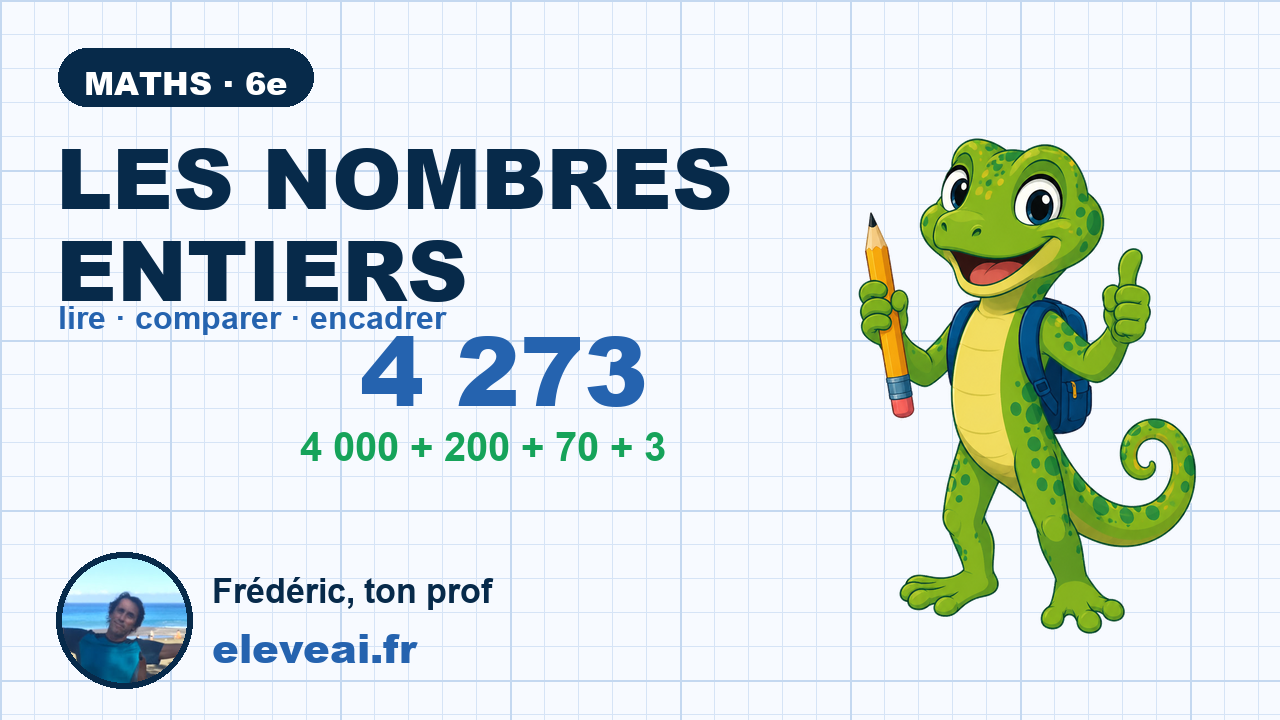
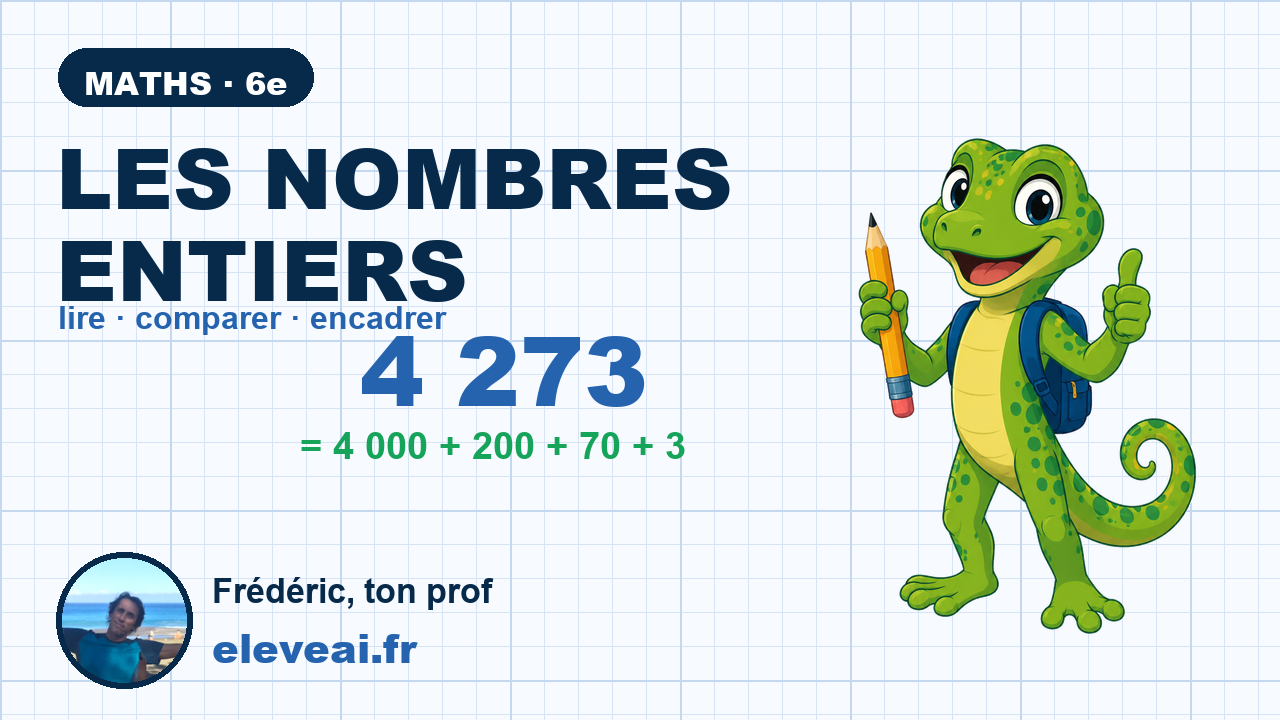
videos manim : infrastructure de production EN LOT (echelle)
- miniature.py devient un REGISTRE (toutes les notions decrites, generation
  en lot : python manim/miniature.py) ; 6 miniatures 6e regenerees au meme
  standard cahier + signature.
- render_all.py : rend toutes les videos d une classe au bon nom (-o), la nuit.
- REGLES.md : muet+texte OBLIGE des explications detaillees et simples a l ecran
  (aucun son), pacing genereux, on n est pas presse ; principe plus-visuel ;
  workflow de production en lot ; voix optionnelle.

Changed region(s): [[0.2188, 0.5806, 0.5312, 0.6417]]

diff --git a/manim/miniature.py b/manim/miniature.py
@@ -1,13 +1,18 @@
-# Générateur de miniatures YouTube EleveAI (1280x720).
-# STYLE DE LA SÉRIE (choisi le 13/07) : « cahier » — fond papier à carreaux clair,
-# badge bleu nuit, titre bleu nuit (Arial Black), addition posée sur les carreaux,
-# Ti-Margo à droite, et la SIGNATURE HUMAINE en bas à gauche : photo ronde de
-# Frédéric + eleveai.fr (le « prof vrai », pas une marque anonyme).
-# Pour une nouvelle notion : changer le bloc « CONTENU » et la fonction accroche().
+# Générateur de miniatures YouTube EleveAI (1280x720) — EN LOT.
+# STYLE FIGÉ « cahier » : fond papier à carreaux clair, badge bleu nuit, titre
+# bleu nuit (Arial Black), accroche visuelle propre à la notion, Ti-Margo à
+# droite, SIGNATURE HUMAINE bas-gauche (photo ronde de Frédéric + eleveai.fr).
 #
-# Usage : python manim/miniature.py  → manim/miniatures/<nom>.png
+# REGISTRE : chaque notion = une entrée dans NOTIONS (badge, titre, taille,
+# sous-titre, fonction accroche). Ajouter une notion = ajouter une entrée + sa
+# fonction accroche.
+#
+# Usage :
+#   python manim/miniature.py            → génère TOUTES les miniatures
+#   python manim/miniature.py <nom>      → génère seulement celle-là (préfixe suffit)
 
 import os
+import sys
 from pathlib import Path
 
 from PIL import Image, ImageDraw, ImageFont
@@ -17,13 +22,6 @@ FONTS = Path("C:/Windows/Fonts")
 TI_MARGO = RACINE / "public" / "cahier-vacances" / "ti-margo.png"
 AVATAR = RACINE / "public" / "images" / "avatar-frederic-Lacoste.jpg"
 SORTIE = RACINE / "manim" / "miniatures"
-
-# ── CONTENU (à changer d'une notion à l'autre) ─────────────────────────────────
-NOM = "eleveai-maths-6e-pourcentage-nombre"
-BADGE = "MATHS · 6e"
-TITRE = ["LES", "POURCENTAGES"]
-TITRE_TAILLE = 78
-SOUS_TITRE = "comprendre · calculer"
 
 # ── Charte cahier ──────────────────────────────────────────────────────────────
 W, H = 1280, 720
@@ -44,6 +42,91 @@ def a_droite(d, xr, y, txt, f, fill):
     d.text((xr - d.textlength(txt, font=f), y), txt, font=f, fill=fill)
 
 
+def centre(d, cx, y, txt, f, fill):
+    d.text((cx - d.textlength(txt, font=f) / 2, y), txt, font=f, fill=fill)
+
+
+# ── Accroches par notion (le dessin propre à chaque cours) ─────────────────────
+def acc_calcul_pose(d):
+    f = police("arialbd.ttf", 62)
+    xg, xd, yh = 476, 700, 322
+    d.text((xg, yh + 74), "+", font=f, fill=BLEU)
+    a_droite(d, xd, yh, "475", f, BLEU)
+    a_droite(d, xd, yh + 74, "286", f, BLEU)
+    d.rounded_rectangle([xg, yh + 156, xd, yh + 168], radius=6, fill=JAUNE)
+    a_droite(d, xd, yh + 178, "761", f, VERT)
+
+
+def acc_entier(d):
+    d.text((360, 300), "4 273", font=police("ariblk.ttf", 96), fill=BLEU)
+    d.text((300, 424), "= 4 000 + 200 + 70 + 3", font=police("arialbd.ttf", 38), fill=VERT)
+
+
+def acc_decimal(d):
+    d.text((360, 300), "3,45", font=police("ariblk.ttf", 96), fill=BLEU)
+    d.text((320, 424), "= 3 + 0,4 + 0,05", font=police("arialbd.ttf", 40), fill=VERT)
+
+
+def acc_fraction(d):
+    d.text((300, 296), "3/4", font=police("ariblk.ttf", 104), fill=BLEU)
+    cx, cy, r = 570, 384, 76
+    box = [cx - r, cy - r, cx + r, cy + r]
+    d.pieslice(box, start=-90, end=180, fill=BLEU)
+    d.ellipse(box, outline=NAVY, width=4)
+    d.line([cx - r, cy, cx + r, cy], fill=NAVY, width=3)
+    d.line([cx, cy - r, cx, cy + r], fill=NAVY, width=3)
+
+
+def acc_proportionnalite(d):
+    x0, y0, cw, ch = 300, 336, 70, 58
+    f = police("ariblk.ttf", 34)
+    for r, (vals, col) in enumerate([(["1", "3", "5"], BLEU), (["2", "6", "10"], NAVY)]):
+        for c, v in enumerate(vals):
+            x, y = x0 + c * cw, y0 + r * ch
+            d.rectangle([x, y, x + cw, y + ch], outline=NAVY, width=3)
+            centre(d, x + cw / 2, y + 10, v, f, col)
+    d.text((x0 + 3 * cw + 20, y0 + 22), "× 2", font=police("ariblk.ttf", 40), fill=VERT)
+
+
+def acc_pourcentage(d):
+    d.text((296, 320), "25 %", font=police("ariblk.ttf", 92), fill=BLEU)
+    gx, gy, cs = 566, 336, 15
+    for i in range(100):
+        r, c = i // 10, i % 10
+        x, y = gx + c * cs, gy + r * cs
+        d.rectangle([x, y, x + cs, y + cs], fill=(BLEU if i < 25 else PAPIER), outline=CARREAU_FORT, width=1)
+
+
+# ── LE REGISTRE : une entrée par notion ────────────────────────────────────────
+NOTIONS = {
+    "eleveai-maths-6e-entier-calcul-pose": {
+        "badge": "MATHS · 6e", "titre": ["LE CALCUL", "POSÉ"], "taille": 84,
+        "sous": "les 4 opérations, pas à pas", "accroche": acc_calcul_pose,
+    },
+    "eleveai-maths-6e-entier-nombre": {
+        "badge": "MATHS · 6e", "titre": ["LES NOMBRES", "ENTIERS"], "taille": 84,
+        "sous": "lire · comparer · encadrer", "accroche": acc_entier,
+    },
+    "eleveai-maths-6e-decimal-nombre": {
+        "badge": "MATHS · 6e", "titre": ["LES NOMBRES", "DÉCIMAUX"], "taille": 84,
+        "sous": "lire · comparer · calculer", "accroche": acc_decimal,
+    },
+    "eleveai-maths-6e-fraction-nombre": {
+        "badge": "MATHS · 6e", "titre": ["LES", "FRACTIONS"], "taille": 84,
+        "sous": "lire · représenter · comparer", "accroche": acc_fraction,
+    },
+    "eleveai-maths-6e-prop-proportionnalite": {
+        "badge": "MATHS · 6e", "titre": ["LA", "PROPORTIONNALITÉ"], "taille": 60,
+        "sous": "reconnaître · le coefficient", "accroche": acc_proportionnalite,
+    },
+    "eleveai-maths-6e-pourcentage-nombre": {
+        "badge": "MATHS · 6e", "titre": ["LES", "POURCENTAGES"], "taille": 78,
+        "sous": "comprendre · calculer", "accroche": acc_pourcentage,
+    },
+}
+
+
+# ── Rendu ──────────────────────────────────────────────────────────────────────
 def fond():
     img = Image.new("RGB", (W, H), PAPIER)
     d = ImageDraw.Draw(img)
@@ -65,18 +148,7 @@ def badge(d, x, y, txt):
     d.text((x + 26, y + 11), txt, font=f, fill=(255, 255, 255))
 
 
-def accroche(d):
-    """« 25 % » + une grille de 100 carreaux, 25 coloriés (spécifique pourcentages)."""
-    d.text((296, 320), "25 %", font=police("ariblk.ttf", 92), fill=BLEU)
-    gx, gy, cs = 566, 336, 15
-    for i in range(100):
-        r, c = i // 10, i % 10
-        x, y = gx + c * cs, gy + r * cs
-        d.rectangle([x, y, x + cs, y + cs], fill=(BLEU if i < 25 else PAPIER), outline=CARREAU_FORT, width=1)
-
-
 def signature(img, d):
-    """Photo ronde de Frédéric + eleveai.fr, en bas à gauche."""
     diam, x, y = 128, 60, 556
     av = Image.open(AVATAR).convert("RGBA")
     s = min(av.size)
@@ -86,13 +158,12 @@ def signature(img, d):
     ImageDraw.Draw(masque).ellipse([0, 0, diam, diam], fill=255)
     img.paste(av, (x, y), masque)
     d.ellipse([x - 4, y - 4, x + diam + 4, y + diam + 4], outline=NAVY, width=6)
-
     tx = x + diam + 24
     d.text((tx, y + 16), "Frédéric, ton prof", font=police("arialbd.ttf", 34), fill=NAVY)
     d.text((tx, y + 62), "eleveai.fr", font=police("ariblk.ttf", 40), fill=BLEU)
 
 
-def construire():
+def construire(nom, spec):
     img = fond()
     d = ImageDraw.Draw(img)
 
@@ -102,20 +173,28 @@ def construire():
     m = m.resize((w, h), Image.LANCZOS)
     img.paste(m, (W - w - 4, H - h - 6), m)
 
-    badge(d, 58, 48, BADGE)
-    ft = police("ariblk.ttf", TITRE_TAILLE)
-    d.text((56, 116), TITRE[0], font=ft, fill=NAVY)
-    d.text((56, 208), TITRE[1], font=ft, fill=NAVY)
-    d.text((58, 300), SOUS_TITRE, font=police("arialbd.ttf", 32), fill=BLEU)
+    badge(d, 58, 48, spec["badge"])
+    ft = police("ariblk.ttf", spec["taille"])
+    d.text((56, 116), spec["titre"][0], font=ft, fill=NAVY)
+    d.text((56, 208), spec["titre"][1], font=ft, fill=NAVY)
+    d.text((58, 300), spec["sous"], font=police("arialbd.ttf", 32), fill=BLEU)
 
-    accroche(d)
+    spec["accroche"](d)
     signature(img, d)
 
     os.makedirs(SORTIE, exist_ok=True)
-    chemin = SORTIE / f"{NOM}.png"
+    chemin = SORTIE / f"{nom}.png"
     img.save(chemin, "PNG")
     print(chemin)
 
 
+def main():
+    filtre = sys.argv[1] if len(sys.argv) > 1 else None
+    for nom, spec in NOTIONS.items():
+        if filtre and filtre not in nom:
+            continue
+        construire(nom, spec)
+
+
 if __name__ == "__main__":
-    construire()
+    main()

diff --git a/manim/render_all.py b/manim/render_all.py
@@ -1,0 +1,83 @@
+# Rendu EN LOT de toutes les vidéos Manim d'une classe.
+# Trouve chaque script manim/scripts/<classe>/<notionId>.py, y lit le nom de la
+# scène (class ...(Scene)) et rend au bon nom (-o eleveai-<matiere>-<classe>-<notionId>).
+# Pensé pour tourner la nuit : lance, récupère les mp4 au réveil.
+#
+# Usage :
+#   python manim/render_all.py 6e            → rendu FINAL 1080p60 de toute la 6e
+#   python manim/render_all.py 6e --draft    → brouillon 480p (rapide, pour vérifier)
+#   python manim/render_all.py 6e fraction   → seulement les scripts contenant "fraction"
+#
+# Matière : "maths" par défaut (--matiere xxx pour changer).
+
+import re
+import subprocess
+import sys
+from pathlib import Path
+
+# La console Windows est en cp1252 : on force l'UTF-8 pour les flèches/emojis.
+try:
+    sys.stdout.reconfigure(encoding="utf-8")
+except Exception:
+    pass
+
+RACINE = Path(__file__).resolve().parents[1]
+
+
+def scene_name(fichier: Path) -> str | None:
+    texte = fichier.read_text(encoding="utf-8")
+    m = re.search(r"class\s+(\w+)\s*\(\s*Scene\s*\)", texte)
+    return m.group(1) if m else None
+
+
+def main():
+    args = [a for a in sys.argv[1:]]
+    draft = "--draft" in args
+    args = [a for a in args if a != "--draft"]
+
+    matiere = "maths"
+    if "--matiere" in args:
+        i = args.index("--matiere")
+        matiere = args[i + 1]
+        del args[i:i + 2]
+
+    classe = args[0] if args else "6e"
+    filtre = args[1] if len(args) > 1 else None
+
+    quality = "-ql" if draft else "-qh"
+    dossier = RACINE / "manim" / "scripts" / classe
+    media = f"manim/scripts/{classe}/media"
+
+    scripts = sorted(p for p in dossier.glob("*.py") if p.name != "__init__.py")
+    if filtre:
+        scripts = [p for p in scripts if filtre in p.stem]
+
+    if not scripts:
+        print(f"Aucun script dans {dossier}" + (f" contenant « {filtre} »" if filtre else ""))
+        return
+
+    print(f"== Rendu {'BROUILLON' if draft else 'FINAL'} de {len(scripts)} vidéo(s) — {classe} ==\n")
+    ok, rate = [], []
+    for i, script in enumerate(scripts, 1):
+        scene = scene_name(script)
+        if not scene:
+            print(f"[{i}/{len(scripts)}] ⚠  {script.name} : pas de classe Scene trouvée, ignoré.")
+            rate.append(script.name)
+            continue
+        notion = script.stem  # ex. entier_nombre
+        oname = f"eleveai-{matiere}-{classe}-{notion.replace('_', '-')}"
+        print(f"[{i}/{len(scripts)}] {script.name} → {scene} → {oname}.mp4")
+        cmd = [
+            sys.executable, "-m", "manim", "render", quality,
+            f"manim/scripts/{classe}/{script.name}", scene,
+            "-o", oname, "--media_dir", media,
+        ]
+        res = subprocess.run(cmd, cwd=RACINE)
+        (ok if res.returncode == 0 else rate).append(oname)
+
+    print("\n== Terminé ==")
+    print(f"✅ {len(ok)} rendue(s)" + (f" · ❌ {len(rate)} échec(s) : {', '.join(rate)}" if rate else ""))
+
+
+if __name__ == "__main__":
+    main()

diff --git a/manim/REGLES.md b/manim/REGLES.md
@@ -25,22 +25,29 @@ Cette procédure est la jumelle de la procédure fiches : même point de départ
      --media_dir manim/scripts/<classe>/media
    ```
    Ex. 6e calcul posé → `-o eleveai-maths-6e-entier-calcul-pose` → `eleveai-maths-6e-entier-calcul-pose.mp4`.
-5. **Enregistrer la voix** (voir « Workflow voix » ci-dessous).
-6. **Monter** dans Clipchamp (inclus dans Windows 11) : vidéo + audio, calage sur le « top », export 1080p.
-7. **Publier sur YouTube** (chaîne eleveai) — voir conventions ci-dessous.
-8. **Coller l'URL dans `/admin/ressources`** (clé = notionId) → vérifier que le badge « ▶ Vidéo » s'allume dans le coach sur cette notion.
+5. **Générer la miniature** : `python manim/miniature.py <nom>` (registre, voir plus bas).
+6. **Publier sur YouTube** (chaîne eleveai) — le mp4 est **muet + texte**, publiable tel quel (voir « Muet + texte » ci-dessous). Voir conventions YouTube.
+7. **Coller l'URL dans `/admin/ressources`** (clé = notionId) → badge « ▶ Vidéo » dans le coach. Ajouter l'entrée `VIDEOS_FICHES` du sitemap (`app/sitemap.ts`).
+8. **Voix (OPTIONNELLE, plus tard)** : uniquement sur les notions phares, ou par les élèves. Voir « Workflow voix ». On n'attend PAS la voix pour publier.
 
 ---
 
-## Standard qualité : MONTRER, pas raconter
+## Standard qualité : MONTRER, pas raconter — et « PLUS C'EST VISUEL, MIEUX C'EST »
 
-C'est un enfant qui regarde. La règle des fiches (retour Frédéric du 13/07) s'applique encore plus fort en vidéo :
+C'est un enfant qui regarde. Principe directeur de Frédéric (13/07) : **par défaut, ON DESSINE**, même là où une phrase suffirait.
 
-- **Les objets bougent, le texte se tait.** Les chiffres s'alignent, la retenue monte, la fraction se construit. Jamais un paragraphe à l'écran.
-- **Texte à l'écran ≤ 6 mots par ligne** (hors calculs). Les explications complètes, c'est la VOIX qui les porte.
-- **Un seul concept par écran.** Si un écran veut dire deux choses, c'est deux écrans.
-- **Les `wait()` sont généreux** (1 à 2,5 s) : ils laissent la place à la voix et au regard de l'élève.
-- **Durée cible : 1 à 2 minutes** (muet). Au-delà, découper en deux vidéos.
+- **Les objets bougent, ils portent le sens.** Les chiffres s'alignent, la retenue monte, la grille se colorie, les barres se comparent. Jamais un paragraphe figé.
+- **Un visuel par écran, et un visuel pour CHAQUE micro-compétence** quand elle se dessine (ne pas regrouper 2 micros dans un seul dessin). **Le défi a SON dessin**, pas seulement du texte.
+- **Un seul concept par écran.** Deux idées = deux écrans.
+- **Les `wait()` sont généreux** (1 à 2,5 s) : le temps de lire et de regarder.
+- **Durée cible : 1 à 2 minutes.** Au-delà, découper en deux vidéos.
+
+### Muet + texte (le mode par défaut) — ⚠ RÈGLE INSISTÉE PAR FRÉDÉRIC
+Les vidéos sont **muettes** (choix du 13/07 pour produire en volume sans goulot voix). **Comme il n'y a AUCUN son, le texte à l'écran doit tout expliquer, en détail et simplement. On n'est PAS pressé** — mieux vaut une vidéo un peu plus longue mais limpide qu'une vidéo rapide et sèche.
+- **Le texte porte TOUTE l'explication.** À chaque étape : ce qu'on fait ET pourquoi, en mots simples d'enfant (ex. non pas « 4 + 7 = 11 » seul, mais « 4 + 7 = 11, j'écris 1 et je retiens 1 »).
+- **Détaillé mais simple** : phrases courtes, une idée par ligne, vocabulaire d'un élève de la classe visée. Chaque écran doit se comprendre **seul, sans le son**.
+- **Prendre son temps** : `wait()` généreux (2 à 3 s, plus sur les écrans denses) pour laisser lire. La durée n'est pas un problème ; la clarté prime. Si la notion est riche, faire 2 vidéos plutôt qu'une trop dense.
+- La voix reste possible **par-dessus, plus tard** (notions phares ou voix d'élèves) sans rien refaire.
 
 ## Charte visuelle (constante, jamais renégociée par vidéo)
 
@@ -54,7 +61,9 @@ C'est un enfant qui regarde. La règle des fiches (retour Frédéric du 13/07) s
   5. À retenir (3 lignes max) + signature `SIGNATURE`
 - **Fond noir** (défaut Manim), textes blancs, français partout.
 
-## Workflow voix (téléphone)
+## Workflow voix (téléphone) — OPTIONNEL, seulement notions phares / voix d'élèves
+
+⚠ Par défaut on publie **muet + texte** (voir plus haut). Ce workflow ne sert que si on veut ajouter une voix a posteriori.
 
 1. Rendre la vidéo **muette** et la regarder une fois en entier.
 2. Enregistrer au **téléphone** (app Dictaphone) en la regardant : mode avion, pièce calme, téléphone à ~20 cm. Dire **« top »** pile quand le titre d'accueil apparaît → point de synchro.
@@ -71,10 +80,25 @@ eleveai-<matiere>-<classe>-<notionId en tirets>.mp4
 - **Coller au notionId** (le nom de la banque), pas à une version raccourcie : c'est la colonne vertébrale banque → fiche → vidéo → coach. Ex. notion `entier_calcul_pose` → `eleveai-maths-6e-entier-calcul-pose.mp4`.
 - Obtenu directement au rendu via `-o` (voir étape 4).
 
-## Miniature YouTube (style de la série)
+## Miniature YouTube (style « cahier », REGISTRE)
 
-`python manim/miniature.py` génère un **1280×720** au style figé de la série (choisi le 13/07) : **« cahier »** — fond papier à carreaux clair, badge bleu nuit `MATHS · <classe>`, titre bleu nuit (Arial Black, 2 lignes) + sous-titre, une accroche visuelle propre à la notion (posée sur les carreaux), Ti-Margo à droite, et la **signature humaine** en bas à gauche : photo ronde de Frédéric (`public/images/avatar-frederic-Lacoste.jpg`) + « Frédéric, ton prof » + `eleveai.fr` (l'arme « humain vrai »). Sortie nommée comme la vidéo (même convention). Pour une nouvelle notion : changer le bloc `CONTENU` (nom, badge, titre, sous-titre) et la fonction `accroche()`.
+`manim/miniature.py` = un **registre** : chaque notion est une entrée `NOTIONS[<nom>]` (badge, titre, taille du titre, sous-titre, fonction `accroche`). Style figé « cahier » : fond papier à carreaux clair, badge bleu nuit `MATHS · <classe>`, titre bleu nuit (Arial Black), sous-titre, **accroche visuelle propre à la notion**, Ti-Margo à droite, **signature humaine** bas-gauche (photo ronde de Frédéric `public/images/avatar-frederic-Lacoste.jpg` + « Frédéric, ton prof » + `eleveai.fr`).
+- `python manim/miniature.py` → génère **toutes** les miniatures du registre.
+- `python manim/miniature.py <préfixe>` → seulement celles dont le nom contient `<préfixe>`.
+- **Ajouter une notion** = ajouter une fonction `acc_xxx(d)` + une entrée dans `NOTIONS`.
 ⚠ Miniature perso = **compte YouTube vérifié** (numéro de téléphone). Elle se change à tout moment, même après publication (Studio → Contenu → la vidéo → Miniature → Enregistrer).
+
+## Production EN LOT (l'échelle — décidé le 13/07)
+
+Une seule personne (Frédéric) doit couvrir toutes les classes. On sépare **la machine** (auto) de **l'humain** (upload). L'IA génère et rend des **classes entières** ; Frédéric ne garde que l'upload YouTube + un SQL.
+
+1. **Générer une classe** (IA, en une passe) : lire toutes les banques `lib/tutor-v4/questionBank/<classe>/maths/*.bank.ts` → écrire toutes les fiches `lib/fiches/maths-<classe>-<notion>.tsx` + tous les scripts `manim/scripts/<classe>/<notionId>.py` + les entrées miniature (`NOTIONS`).
+2. **Rendre en lot** (la nuit) : `python manim/render_all.py <classe>` rend TOUTES les vidéos de la classe en 1080p60 au bon nom. `--draft` pour vérifier vite, `<filtre>` pour une sous-partie.
+3. **Miniatures en lot** : `python manim/miniature.py`.
+4. **Upload** (Frédéric, depuis le téléphone possible) : publier les mp4 muets sur YouTube (playlist par classe).
+5. **Brancher** : une entrée `VIDEOS_FICHES` par vidéo dans `app/sitemap.ts`, + une ligne `notion_ressources` par vidéo (`/admin/ressources` ou un INSERT SQL groupé).
+
+**Prioriser par la data** : ne pas pré-produire 180 vidéos. Faire les notions les plus cherchées/utilisées, laisser le SEO + les stats du coach guider l'ordre.
 
 ## Conventions YouTube
 
@@ -87,7 +111,9 @@ eleveai-<matiere>-<classe>-<notionId en tirets>.mp4
 
 - [ ] Tous les `microId` de la banque couverts (mapping en tête du script)
 - [ ] Mêmes exemples que la fiche
+- [ ] **Un visuel par écran + le défi dessiné** (« plus c'est visuel, mieux c'est »)
+- [ ] **Muet + texte** : le texte à l'écran porte l'explication (étapes + pourquoi)
 - [ ] Margouillat sur chaque écran, couleurs de `charte.py`
-- [ ] Rendu 1080p60 (`-qh`), voix calée, pas de coupure audio
-- [ ] Titre/description/playlist YouTube conformes
-- [ ] URL collée dans `/admin/ressources` + badge ▶ vérifié dans le coach
+- [ ] Rendu 1080p60 (`-qh` via `render_all.py`) + miniature générée
+- [ ] Titre/description YouTube conformes (sans chevrons `< >`), playlist par classe
+- [ ] URL dans `/admin/ressources` (badge ▶) + entrée `VIDEOS_FICHES` du sitemap
